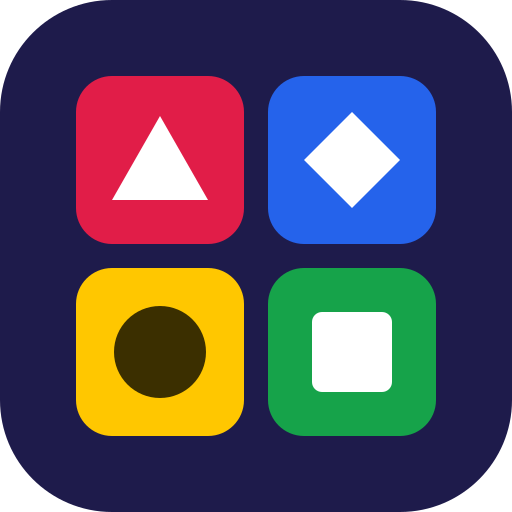
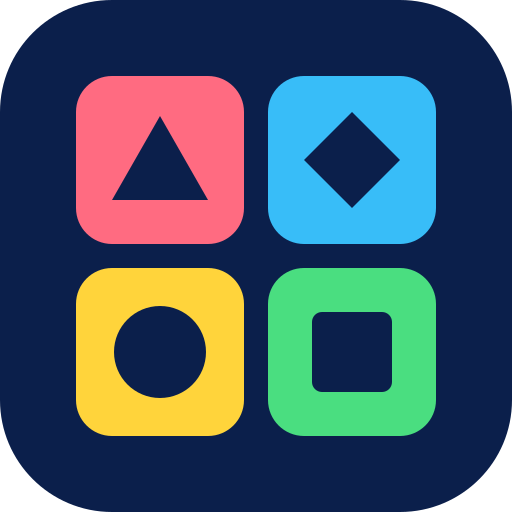
style: switch to the Ocean palette (navy, orange, candy tiles)

diff --git a/app/globals.css b/app/globals.css
@@ -6,16 +6,16 @@
 }
 
 @theme {
-  /* Party Pop palette */
-  --color-night: #1e1b4b; /* page background */
-  --color-ink: #141038; /* inset / darker surfaces */
-  --color-surface: #2b2564; /* cards */
-  --color-raised: #363075; /* chips, hovered surfaces */
-  --color-line: rgba(255, 255, 255, 0.1);
-  --color-mist: #a5a3d6; /* secondary text */
-  --color-faint: #6e69ad; /* tertiary text */
-  --color-gold: #ffc700;
-  --color-grape: #7c3aed;
+  /* Ocean palette: deep navy, bright orange, candy tiles */
+  --color-night: #0b1f4b; /* page background */
+  --color-ink: #07153a; /* inset / darker surfaces */
+  --color-surface: #15296b; /* cards */
+  --color-raised: #1f3a8a; /* chips, hovered surfaces */
+  --color-line: rgba(255, 255, 255, 0.12);
+  --color-mist: #b3c3ee; /* secondary text */
+  --color-faint: #8da2dc; /* tertiary text */
+  --color-accent: #ffa62b; /* highlights: room code, points, selected */
+  --color-pick: #2563eb; /* selected toggles */
 
   --animate-pop-in: pop-in 0.35s cubic-bezier(0.34, 1.56, 0.64, 1) both;
   --animate-float: float 5s ease-in-out infinite;
@@ -38,10 +38,10 @@
 }
 
 body {
-  background-color: #1e1b4b;
+  background-color: #0b1f4b;
   background-image:
-    radial-gradient(60rem 40rem at 85% -10%, rgba(124, 58, 237, 0.4), transparent 60%),
-    radial-gradient(50rem 35rem at -10% 110%, rgba(225, 29, 72, 0.16), transparent 60%);
+    radial-gradient(60rem 40rem at 85% -10%, rgba(59, 130, 246, 0.4), transparent 60%),
+    radial-gradient(50rem 35rem at -10% 110%, rgba(255, 140, 0, 0.2), transparent 60%);
   background-attachment: fixed;
   color: #ffffff;
   font-family: var(--font-nunito), 'Nunito', sans-serif;
@@ -49,44 +49,46 @@ body {
 }
 
 @utility card {
-  background: #2b2564;
-  border: 1px solid rgba(255, 255, 255, 0.1);
+  background: #15296b;
+  border: 1px solid rgba(255, 255, 255, 0.12);
   border-radius: 20px;
 }
 
 @utility btn-primary {
-  background: #7c3aed;
-  color: #ffffff;
+  background: #ff9f1c;
+  color: #0b1f4b;
   font-weight: 800;
   border-radius: 16px;
-  box-shadow: 0 5px 0 #55229e;
+  box-shadow: 0 5px 0 #b36b00;
   transition: transform 0.1s ease, box-shadow 0.1s ease, background 0.15s ease;
-  &:hover { background: #8b5cf6; }
-  &:active { transform: translateY(4px); box-shadow: 0 1px 0 #55229e; }
-  &:disabled { opacity: 0.35; transform: none; box-shadow: 0 5px 0 #55229e; }
+  &:hover { background: #ffb13d; }
+  &:active { transform: translateY(4px); box-shadow: 0 1px 0 #b36b00; }
+  /* Muted blue rather than faded orange, which turns muddy brown on navy. */
+  &:disabled { background: #34498f; color: #8da2dc; transform: none; box-shadow: 0 5px 0 #15296b; }
 }
 
 @utility btn-secondary {
-  background: #ffc700;
-  color: #1e1b4b;
+  background: #1f3a8a;
+  color: #ffffff;
   font-weight: 800;
   border-radius: 16px;
-  box-shadow: 0 5px 0 #c29500;
+  border: 1px solid rgba(255, 255, 255, 0.14);
+  box-shadow: 0 5px 0 #0a1640;
   transition: transform 0.1s ease, box-shadow 0.1s ease, background 0.15s ease;
-  &:hover { background: #ffd333; }
-  &:active { transform: translateY(4px); box-shadow: 0 1px 0 #c29500; }
-  &:disabled { opacity: 0.35; transform: none; box-shadow: 0 5px 0 #c29500; }
+  &:hover { background: #2a4ba8; }
+  &:active { transform: translateY(4px); box-shadow: 0 1px 0 #0a1640; }
+  &:disabled { opacity: 0.35; transform: none; box-shadow: 0 5px 0 #0a1640; }
 }
 
 @utility field-input {
-  background: #141038;
-  border: 2px solid rgba(255, 255, 255, 0.12);
+  background: #07153a;
+  border: 2px solid rgba(255, 255, 255, 0.14);
   border-radius: 14px;
   color: #ffffff;
   outline: none;
   transition: border-color 0.2s, box-shadow 0.2s;
-  &:focus { border-color: #ffc700; box-shadow: 0 0 0 4px rgba(255, 199, 0, 0.15); }
-  &::placeholder { color: #55508f; }
+  &:focus { border-color: #ffa62b; box-shadow: 0 0 0 4px rgba(255, 166, 43, 0.18); }
+  &::placeholder { color: #6f86c8; }
 }
 
 @utility tag {
@@ -94,7 +96,7 @@ body {
   font-weight: 800;
   letter-spacing: 0.12em;
   text-transform: uppercase;
-  color: #8f8cc4;
+  color: #9fb4ea;
 }
 
 @media (prefers-reduced-motion: reduce) {

diff --git a/app/host/page.tsx b/app/host/page.tsx
@@ -250,7 +250,7 @@ export default function HostPage() {
                   onClick={() => setGameType(g.type)}
                   className={`flex items-center gap-4 p-4 rounded-2xl text-left transition-all border-2 cursor-pointer ${
                     gameType === g.type
-                      ? 'bg-raised border-gold'
+                      ? 'bg-raised border-accent'
                       : 'bg-surface border-line'
                   }`}
                 >
@@ -260,7 +260,7 @@ export default function HostPage() {
                     <p className="text-mist text-xs mt-0.5 font-semibold">{g.desc}</p>
                   </div>
                   <div className={`w-4 h-4 rounded-full border-2 flex items-center justify-center shrink-0 ${
-                    gameType === g.type ? 'border-gold bg-gold' : 'border-faint'
+                    gameType === g.type ? 'border-accent bg-accent' : 'border-faint'
                   }`}>
                     {gameType === g.type && <div className="w-1.5 h-1.5 rounded-full bg-night" />}
                   </div>
@@ -277,7 +277,7 @@ export default function HostPage() {
                   key={m}
                   onClick={() => setMode(m)}
                   className={`flex-1 py-2.5 rounded-xl text-sm font-bold transition-all cursor-pointer ${
-                    mode === m ? 'bg-grape text-white' : 'text-mist'
+                    mode === m ? 'bg-pick text-white' : 'text-mist'
                   }`}
                 >
                   {m === 'individual' ? '👤 Individual' : '👥 Tim'}
@@ -294,7 +294,7 @@ export default function HostPage() {
                   key={n}
                   onClick={() => setQuestionCount(n)}
                   className={`flex-1 py-2.5 rounded-xl text-sm font-bold transition-all cursor-pointer ${
-                    questionCount === n ? 'bg-grape text-white' : 'text-mist'
+                    questionCount === n ? 'bg-pick text-white' : 'text-mist'
                   }`}
                 >
                   {n}
@@ -319,7 +319,7 @@ export default function HostPage() {
         <div className="w-full max-w-sm flex flex-col flex-1">
         <div className="mb-8 text-center">
           <p className="tag mb-2">Kode Room</p>
-          <h2 className="font-display text-6xl font-semibold text-gold tracking-[0.18em] drop-shadow-[0_4px_0_rgba(0,0,0,0.25)]">
+          <h2 className="font-display text-6xl font-semibold text-accent tracking-[0.18em] drop-shadow-[0_4px_0_rgba(0,0,0,0.25)]">
             {roomCode}
           </h2>
           <p className="text-mist text-xs mt-3 font-bold">
@@ -337,7 +337,7 @@ export default function HostPage() {
               <span key={p.id} className="animate-pop-in bg-raised border border-line rounded-full pl-2.5 pr-3 py-1.5 flex items-center gap-2 text-sm font-bold">
                 {p.teamColor
                   ? <span className="w-2.5 h-2.5 rounded-full shrink-0" style={{ backgroundColor: p.teamColor }} />
-                  : <span className="w-2.5 h-2.5 rounded-full shrink-0 bg-gold" />
+                  : <span className="w-2.5 h-2.5 rounded-full shrink-0 bg-accent" />
                 }
                 {p.name}
                 {p.teamName && <span className="text-faint text-[10px] uppercase tracking-wider">{p.teamName}</span>}
@@ -395,7 +395,7 @@ export default function HostPage() {
             </p>
           </div>
           {totalQ > 0 && (
-            <span className="bg-raised border border-line rounded-full px-3 py-1 text-gold text-sm font-bold tabular-nums">
+            <span className="bg-raised border border-line rounded-full px-3 py-1 text-accent text-sm font-bold tabular-nums">
               {currentQ} / {totalQ}
             </span>
           )}

diff --git a/app/page.tsx b/app/page.tsx
@@ -2,12 +2,12 @@
 import { useRouter } from 'next/navigation'
 
 const SHAPES = [
-  { char: '▲', color: '#FB7185', top: '10%', left: '10%', size: '2rem', tilt: '-14deg', delay: '0s' },
-  { char: '◆', color: '#60A5FA', top: '18%', right: '12%', size: '1.6rem', tilt: '10deg', delay: '-1.4s' },
-  { char: '●', color: '#FFC700', bottom: '24%', left: '14%', size: '1.4rem', tilt: '0deg', delay: '-2.6s' },
+  { char: '▲', color: '#FF6B81', top: '10%', left: '10%', size: '2rem', tilt: '-14deg', delay: '0s' },
+  { char: '◆', color: '#38BDF8', top: '18%', right: '12%', size: '1.6rem', tilt: '10deg', delay: '-1.4s' },
+  { char: '●', color: '#FFD43B', bottom: '24%', left: '14%', size: '1.4rem', tilt: '0deg', delay: '-2.6s' },
   { char: '■', color: '#4ADE80', bottom: '14%', right: '14%', size: '1.7rem', tilt: '16deg', delay: '-3.8s' },
-  { char: '✦', color: '#C4B5FD', top: '38%', left: '4%', size: '1.1rem', tilt: '0deg', delay: '-2s' },
-  { char: '✦', color: '#F0ABFC', top: '30%', right: '5%', size: '0.9rem', tilt: '0deg', delay: '-0.8s' },
+  { char: '✦', color: '#93C5FD', top: '38%', left: '4%', size: '1.1rem', tilt: '0deg', delay: '-2s' },
+  { char: '✦', color: '#FFA62B', top: '30%', right: '5%', size: '0.9rem', tilt: '0deg', delay: '-0.8s' },
 ]
 
 const GAMES = [
@@ -38,13 +38,13 @@ export default function Home() {
 
       <div className="flex flex-col items-center text-center mb-10 relative">
         <div className="flex gap-2 text-xl mb-4" aria-hidden>
-          <span style={{ color: '#FB7185' }}>▲</span>
-          <span style={{ color: '#60A5FA' }}>◆</span>
-          <span style={{ color: '#FFC700' }}>●</span>
+          <span style={{ color: '#FF6B81' }}>▲</span>
+          <span style={{ color: '#38BDF8' }}>◆</span>
+          <span style={{ color: '#FFD43B' }}>●</span>
           <span style={{ color: '#4ADE80' }}>■</span>
         </div>
         <h1 className="font-display text-6xl font-semibold tracking-tight leading-none">
-          CG <span className="text-gold">Games</span>
+          CG <span className="text-accent">Games</span>
         </h1>
       </div>
 

diff --git a/components/shared/Leaderboard.tsx b/components/shared/Leaderboard.tsx
@@ -8,7 +8,7 @@ interface LeaderboardProps {
 }
 
 const PODIUM = [
-  { medal: '🥇', accent: 'border-gold bg-gold/10' },
+  { medal: '🥇', accent: 'border-accent bg-accent/10' },
   { medal: '🥈', accent: 'border-[#C0C0C0]/50 bg-white/5' },
   { medal: '🥉', accent: 'border-[#CD7F32]/50 bg-[#CD7F32]/10' },
 ]
@@ -24,7 +24,7 @@ export function Leaderboard({ entries, mode, meId }: LeaderboardProps) {
             key={entry.playerId ?? entry.teamId}
             className={`animate-pop-in flex items-center gap-3 rounded-2xl p-4 border ${
               podium ? podium.accent : 'bg-surface border-line'
-            } ${i === 0 ? 'py-5' : ''} ${isMe ? 'ring-2 ring-gold' : ''}`}
+            } ${i === 0 ? 'py-5' : ''} ${isMe ? 'ring-2 ring-accent' : ''}`}
             style={{ animationDelay: `${Math.min(i, 10) * 70}ms` }}
           >
             <span className="w-8 text-center shrink-0">
@@ -38,9 +38,9 @@ export function Leaderboard({ entries, mode, meId }: LeaderboardProps) {
             )}
             <span className={`flex-1 font-bold ${i === 0 ? 'font-display text-lg font-semibold' : 'text-sm'}`}>
               {entry.playerName ?? entry.teamName}
-              {isMe && <span className="text-gold text-[10px] font-bold uppercase tracking-wider ml-2">Kamu</span>}
+              {isMe && <span className="text-accent text-[10px] font-bold uppercase tracking-wider ml-2">Kamu</span>}
             </span>
-            <span className={`font-bold shrink-0 tabular-nums ${i === 0 ? 'text-gold text-lg' : 'text-sm'}`}>
+            <span className={`font-bold shrink-0 tabular-nums ${i === 0 ? 'text-accent text-lg' : 'text-sm'}`}>
               {entry.totalPoints ?? 0}
               <span className="text-faint font-semibold text-xs ml-0.5">pts</span>
             </span>

diff --git a/app/play/[roomCode]/page.tsx b/app/play/[roomCode]/page.tsx
@@ -87,7 +87,7 @@ export default function PlayPage() {
       <main className="min-h-dvh flex items-center justify-center p-6">
         <div className="card p-8 flex flex-col items-center gap-4 text-center max-w-xs w-full">
           <p className="text-mist text-sm font-semibold">Session tidak ditemukan.</p>
-          <a href="/join" className="text-gold text-sm font-bold underline underline-offset-4">
+          <a href="/join" className="text-accent text-sm font-bold underline underline-offset-4">
             Join ulang
           </a>
         </div>
@@ -114,7 +114,7 @@ export default function PlayPage() {
           )}
           <div className="card px-5 py-2.5 flex items-center gap-2">
             <span className="tag">Room</span>
-            <span className="font-display text-gold font-semibold tracking-widest text-xl">{roomCode}</span>
+            <span className="font-display text-accent font-semibold tracking-widest text-xl">{roomCode}</span>
           </div>
         </div>
       )}
@@ -171,7 +171,7 @@ export default function PlayPage() {
                 {lastPoints >= 800 ? '🎉' : lastPoints >= 500 ? '🔥' : lastPoints > 0 ? '👍' : '😅'}
               </div>
               <div className="card px-10 py-6 flex flex-col items-center gap-1 text-center animate-pop-in">
-                <span className="font-display text-5xl font-semibold text-gold tabular-nums">+{lastPoints}</span>
+                <span className="font-display text-5xl font-semibold text-accent tabular-nums">+{lastPoints}</span>
                 <span className="tag">poin</span>
               </div>
             </>

diff --git a/app/results/[sessionId]/page.tsx b/app/results/[sessionId]/page.tsx
@@ -6,7 +6,7 @@ import { clearPlayerSession, getCurrentPlayerRoom, getPlayerSession } from '@/li
 import { Leaderboard } from '@/components/shared/Leaderboard'
 import type { LeaderboardEntry, RoomMode } from '@/types/game'
 
-const CONFETTI_COLORS = ['#E11D48', '#2563EB', '#FFC700', '#16A34A', '#7C3AED', '#F0ABFC']
+const CONFETTI_COLORS = ['#FF6B81', '#38BDF8', '#FFD43B', '#4ADE80', '#FF9F1C', '#93C5FD']
 const CONFETTI = Array.from({ length: 18 }, (_, i) => ({
   left: `${(i * 137.5) % 100}%`,
   color: CONFETTI_COLORS[i % CONFETTI_COLORS.length],
@@ -88,7 +88,7 @@ export default function ResultsPage() {
           <>
             {myRank >= 0 && (
               <p className="text-center text-sm font-bold mb-4" role="status">
-                Posisimu: <span className="text-gold">#{myRank + 1}</span> dari {entries.length}
+                Posisimu: <span className="text-accent">#{myRank + 1}</span> dari {entries.length}
                 {mode === 'team' && <span className="text-mist"> (tim)</span>}
               </p>
             )}

diff --git a/components/shared/Standings.tsx b/components/shared/Standings.tsx
@@ -17,7 +17,7 @@ export function StandingsCard({ standings, meId, limit = 5 }: StandingsCardProps
     <div
       key={entry.id}
       className={`flex items-center gap-2.5 rounded-xl px-3 py-2 text-sm ${
-        entry.id === meId ? 'bg-gold/15 border border-gold/60' : 'bg-white/5 border border-transparent'
+        entry.id === meId ? 'bg-accent/15 border border-accent/60' : 'bg-white/5 border border-transparent'
       }`}
     >
       <span className="w-5 text-center text-faint text-xs font-bold tabular-nums">{rank}</span>
@@ -26,7 +26,7 @@ export function StandingsCard({ standings, meId, limit = 5 }: StandingsCardProps
       )}
       <span className="flex-1 font-bold truncate">
         {entry.name}
-        {entry.id === meId && <span className="text-gold text-[10px] uppercase tracking-wider ml-2">Kamu</span>}
+        {entry.id === meId && <span className="text-accent text-[10px] uppercase tracking-wider ml-2">Kamu</span>}
       </span>
       <span className="font-bold tabular-nums">{entry.points}</span>
     </div>

diff --git a/app/global-error.tsx b/app/global-error.tsx
@@ -16,10 +16,10 @@ export default function GlobalError({
 
   return (
     <html lang="id">
-      <body style={{ background: '#1e1b4b', color: '#fff', fontFamily: 'sans-serif', display: 'flex', minHeight: '100dvh', alignItems: 'center', justifyContent: 'center' }}>
+      <body style={{ background: '#0b1f4b', color: '#fff', fontFamily: 'sans-serif', display: 'flex', minHeight: '100dvh', alignItems: 'center', justifyContent: 'center' }}>
         <div style={{ textAlign: 'center', padding: 24 }}>
           <p style={{ fontSize: 20, fontWeight: 600 }}>Ada yang salah</p>
-          <button onClick={() => unstable_retry()} style={{ marginTop: 16, padding: '12px 24px', borderRadius: 12, border: 0, background: '#ffc700', fontWeight: 700 }}>
+          <button onClick={() => unstable_retry()} style={{ marginTop: 16, padding: '12px 24px', borderRadius: 12, border: 0, background: '#ff9f1c', color: '#0b1f4b', fontWeight: 700 }}>
             Coba lagi
           </button>
         </div>

diff --git a/components/games/BibleQuiz.tsx b/components/games/BibleQuiz.tsx
@@ -19,10 +19,10 @@ interface Props {
 }
 
 const OPTIONS = [
-  { label: 'A', shape: '▲', bg: '#E11D48', shadow: '#9F1239', text: 'text-white' },
-  { label: 'B', shape: '◆', bg: '#2563EB', shadow: '#1E3A8A', text: 'text-white' },
-  { label: 'C', shape: '●', bg: '#FFC700', shadow: '#B78F00', text: 'text-[#3B2F00]' },
-  { label: 'D', shape: '■', bg: '#16A34A', shadow: '#14532D', text: 'text-white' },
+  { label: 'A', shape: '▲', bg: '#FF6B81', shadow: '#C23A52', text: 'text-night' },
+  { label: 'B', shape: '◆', bg: '#38BDF8', shadow: '#0E86B8', text: 'text-night' },
+  { label: 'C', shape: '●', bg: '#FFD43B', shadow: '#B8960C', text: 'text-night' },
+  { label: 'D', shape: '■', bg: '#4ADE80', shadow: '#1E9A52', text: 'text-night' },
 ]
 
 export function BibleQuiz({ questionId, content, sessionId, sessionToken, questionIndex, totalQuestions, elapsedMs = 0, onAnswered }: Props) {

diff --git a/components/games/VerseScramble.tsx b/components/games/VerseScramble.tsx
@@ -92,7 +92,7 @@ export function VerseScramble({ questionId, content, sessionId, sessionToken, qu
             <button
               key={pos}
               onClick={() => remove(pos)}
-              className="bg-gold text-night px-3 py-1.5 rounded-lg font-bold text-sm active:scale-95 transition-transform cursor-pointer shadow-[0_2px_0_#C29500]"
+              className="bg-accent text-night px-3 py-1.5 rounded-lg font-bold text-sm active:scale-95 transition-transform cursor-pointer shadow-[0_2px_0_#b36b00]"
             >
               {content.words[wordIndex]}
             </button>

diff --git a/app/join/page.tsx b/app/join/page.tsx
@@ -61,7 +61,7 @@ export default function JoinPage() {
           <div className="flex flex-col gap-1.5">
             <label className="tag">Kode Room</label>
             <input
-              className="field-input font-display p-4 text-center text-3xl font-semibold tracking-[0.25em] uppercase w-full text-gold"
+              className="field-input font-display p-4 text-center text-3xl font-semibold tracking-[0.25em] uppercase w-full text-accent"
               placeholder="······"
               value={code}
               onChange={(e) => setCode(e.target.value.toUpperCase())}

diff --git a/components/games/EmojiStory.tsx b/components/games/EmojiStory.tsx
@@ -100,7 +100,7 @@ export function EmojiStory({ questionId, content, sessionId, sessionToken, quest
               disabled={answered || isFull}
               className={`py-3 px-4 rounded-xl text-sm font-bold text-left border-2 transition-all cursor-pointer ${
                 isSelected
-                  ? 'bg-grape border-grape text-white shadow-[0_3px_0_#55229E]'
+                  ? 'bg-pick border-pick text-white shadow-[0_3px_0_#1e3a8a]'
                   : 'bg-surface border-line'
               } ${isFull ? 'opacity-25' : ''}`}
             >
